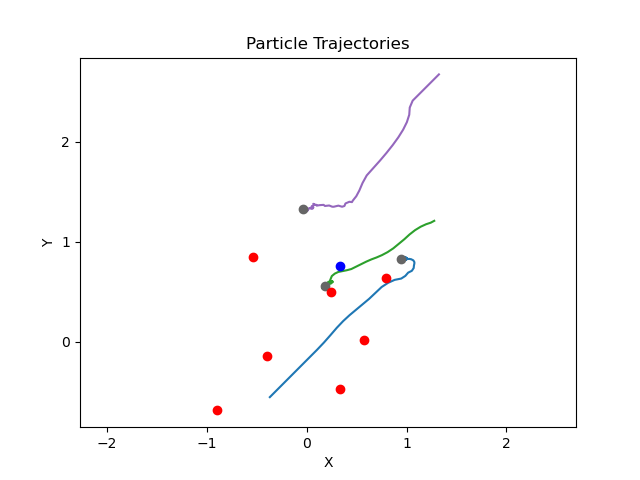
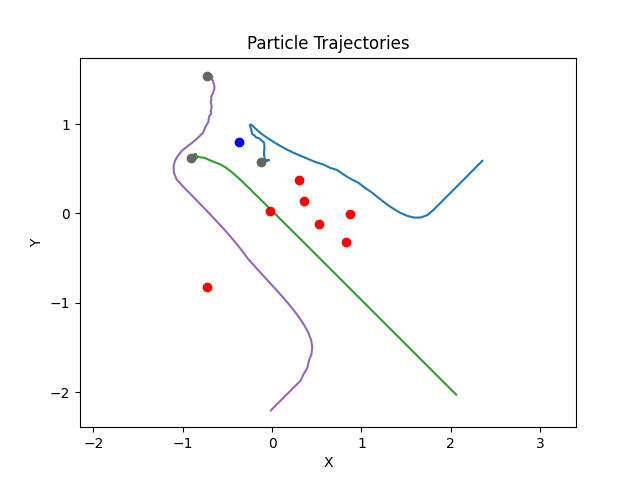
Minor udpates

diff --git a/decentralized_experiment.py b/decentralized_experiment.py
@@ -16,19 +16,19 @@ parser.add_argument('--num_eps', dest='num_eps', default=1000,
 parser.add_argument('--save_images', dest='images', default='True',
                     help='True to save images and gifs, False not to.')
 
-parser.add_argument('--save_models', dest='save_model', default='False',
+parser.add_argument('--save_models', dest='save_model', default='True',
                     help='True to save models, False not to.')
 
-parser.add_argument('--load_models', dest='load_model', default='True',
+parser.add_argument('--load_models', dest='load_model', default='False',
                     help='True to load models, anything not to.')
 
-parser.add_argument('--train', dest='train', default='False',
+parser.add_argument('--train', dest='train', default='True',
                     help='True to train models, anything else not to.')
 
-parser.add_argument('--save_suffix', dest='save_suffix', default="101010",
+parser.add_argument('--save_suffix', dest='save_suffix', default="",
                     help='Suffix for saving the file')
                     
-parser.add_argument('--load_suffix', dest='load_suffix', default="101010",
+parser.add_argument('--load_suffix', dest='load_suffix', default="",
                     help='Suffix for loading the file')
 
 args = parser.parse_args()

diff --git a/envs/scenarios/formation_w_coll_avoidance.py b/envs/scenarios/formation_w_coll_avoidance.py
@@ -51,7 +51,7 @@ class Scenario(BaseScenario):
             landmark.state.p_vel = np.zeros(world.dim_p)
 
         # Set a random goal position
-        self.goal_pos = np.random.uniform(-3, +3, world.dim_p)
+        self.goal_pos = np.random.uniform(-1, +1, world.dim_p)
 
         # Update our goal landmark for visualization
         world.goal[0].color = np.array([0.0, 0.0, 1.0])
